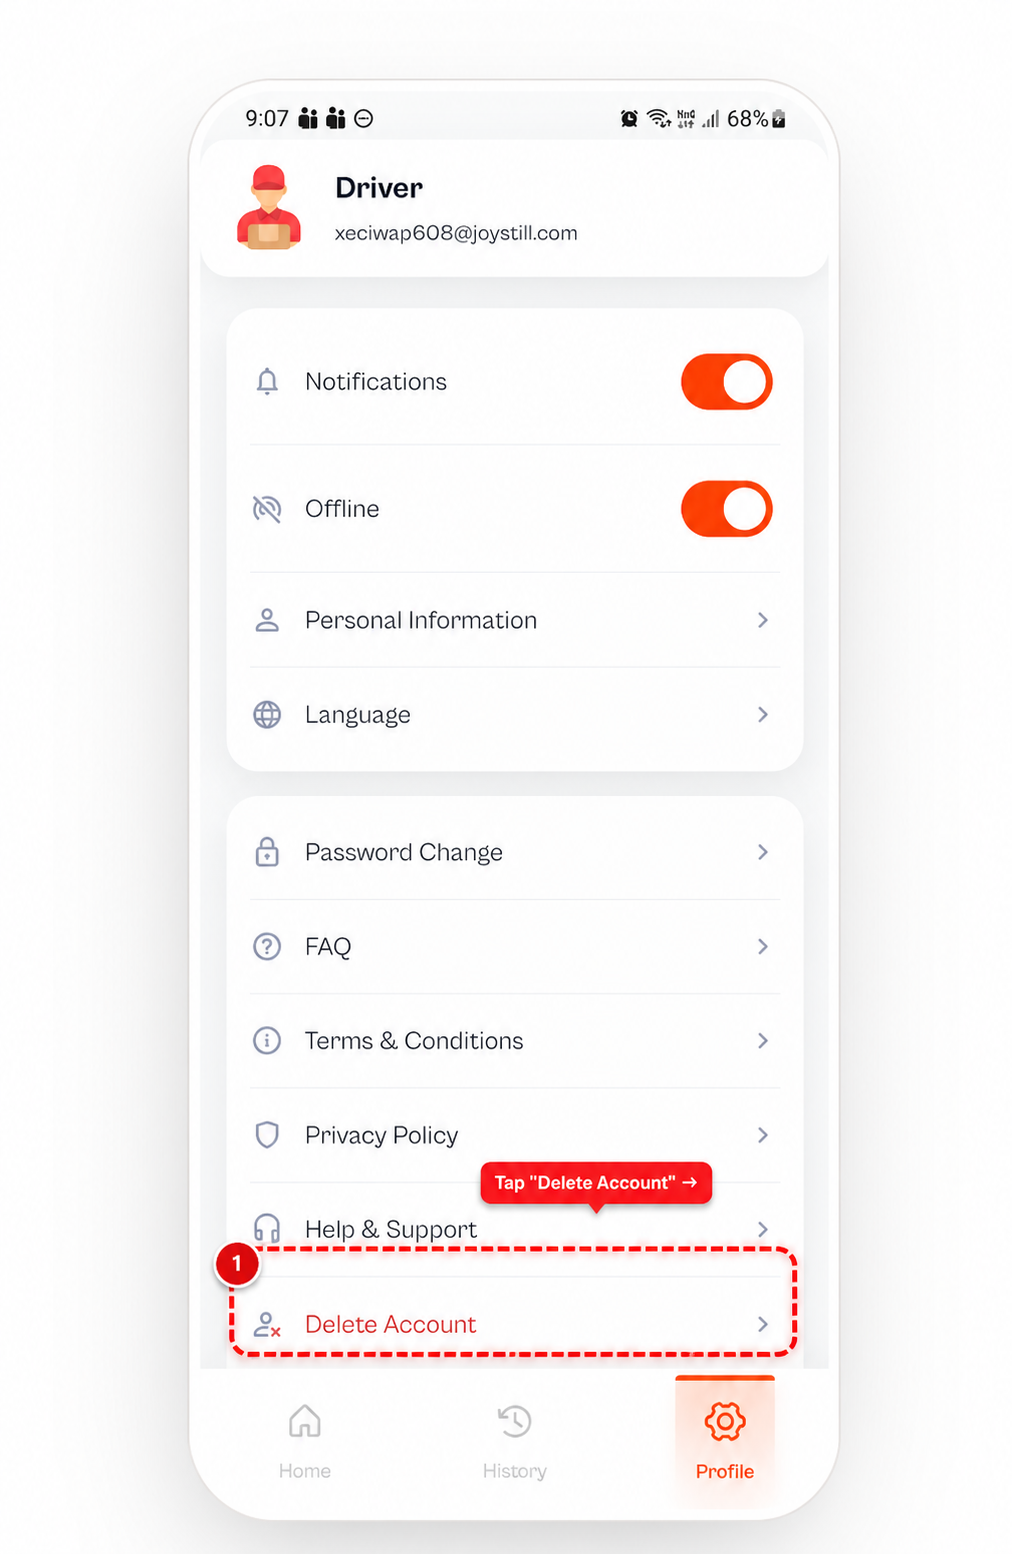
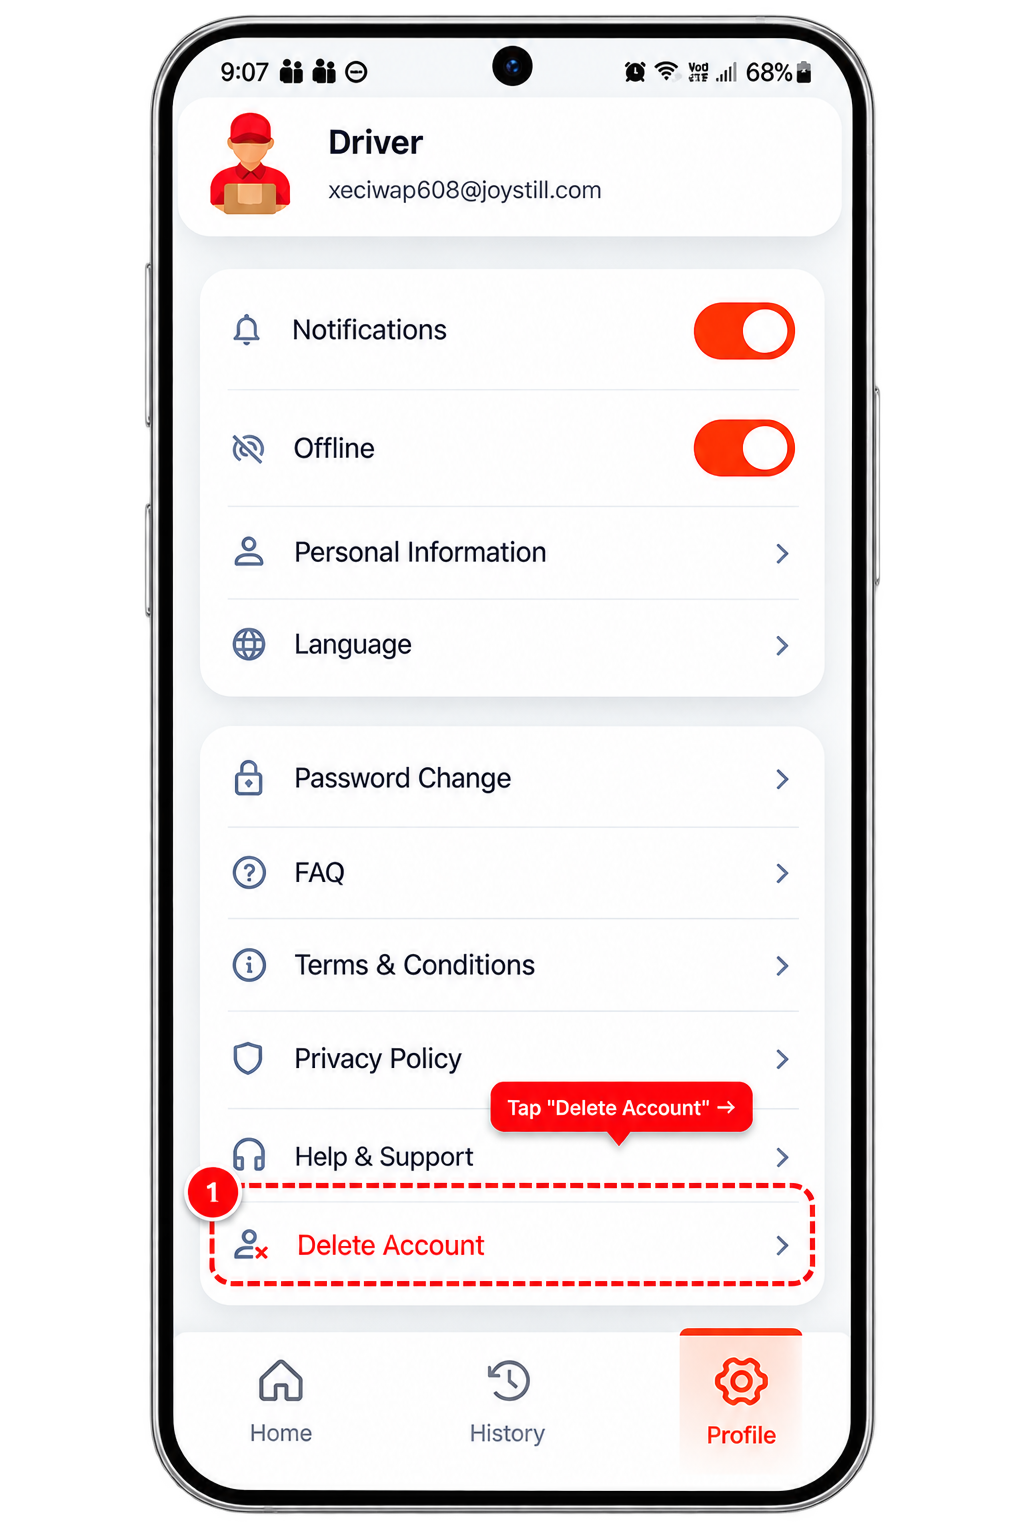
all ok

diff --git a/app/account-delete-guideline/page.tsx b/app/account-delete-guideline/page.tsx
@@ -235,10 +235,10 @@ export default function Page() {
                             </div>
 
                             {/* Right Column: Screenshot Image with Red Markings */}
-                            <div className="w-full lg:w-[380px] bg-gradient-to-b from-stone-50 to-stone-100 p-6 sm:p-8 flex flex-col items-center justify-center border-t lg:border-t-0 lg:border-l border-stone-200/80 relative">
+                            <div className="w-full lg:w-[380px] p-6 sm:p-8 flex flex-col items-center justify-center border-t lg:border-t-0 lg:border-l border-stone-200/80 relative">
                                 <div
                                     onClick={() => setZoomedImage(item.image)}
-                                    className="group relative cursor-pointer rounded-[2rem] overflow-hidden shadow-2xl border-4 border-white ring-1 ring-stone-200/80 transition-transform duration-300 hover:scale-[1.02]"
+                                    className="group relative cursor-pointer transition-transform duration-300 hover:scale-[1.02]"
                                 >
                                     <Image
                                         src={item.image}
@@ -251,8 +251,8 @@ export default function Page() {
                                     />
 
                                     {/* Hover Overlay */}
-                                    <div className="absolute inset-0 bg-gradient-to-t from-black/60 via-black/10 to-transparent opacity-0 group-hover:opacity-100 transition-opacity duration-300 flex items-center justify-center">
-                                        <div className="bg-white/95 text-stone-900 text-xs font-bold px-3.5 py-2 rounded-full shadow-lg flex items-center gap-1.5 transform translate-y-2 group-hover:translate-y-0 transition-transform">
+                                    <div className="absolute inset-0 bg-gradient-to-t from-black/60 via-black/10 to-transparent opacity-0 group-hover:opacity-100 transition-opacity duration-300 flex items-center justify-center rounded-3xl">
+                                        <div className="bg-white text-stone-900 text-xs font-bold px-3.5 py-2 rounded-full shadow-lg flex items-center gap-1.5 transform translate-y-2 group-hover:translate-y-0 transition-transform">
                                             <ZoomIn className="w-4 h-4 text-[#FF5500]" />
                                             Click to Enlarge
                                         </div>
@@ -292,10 +292,8 @@ export default function Page() {
                             >
                                 <X className="w-5 h-5" />
                             </button>
-                            <p className="text-xs font-bold text-stone-500 uppercase tracking-wider mb-3">
-                                High Resolution Screenshot with Red Markings
-                            </p>
-                            <div className="rounded-2xl overflow-hidden border border-stone-200">
+
+                            <div className="overflow-hidden">
                                 <Image
                                     src={zoomedImage}
                                     alt="Zoomed screenshot"
